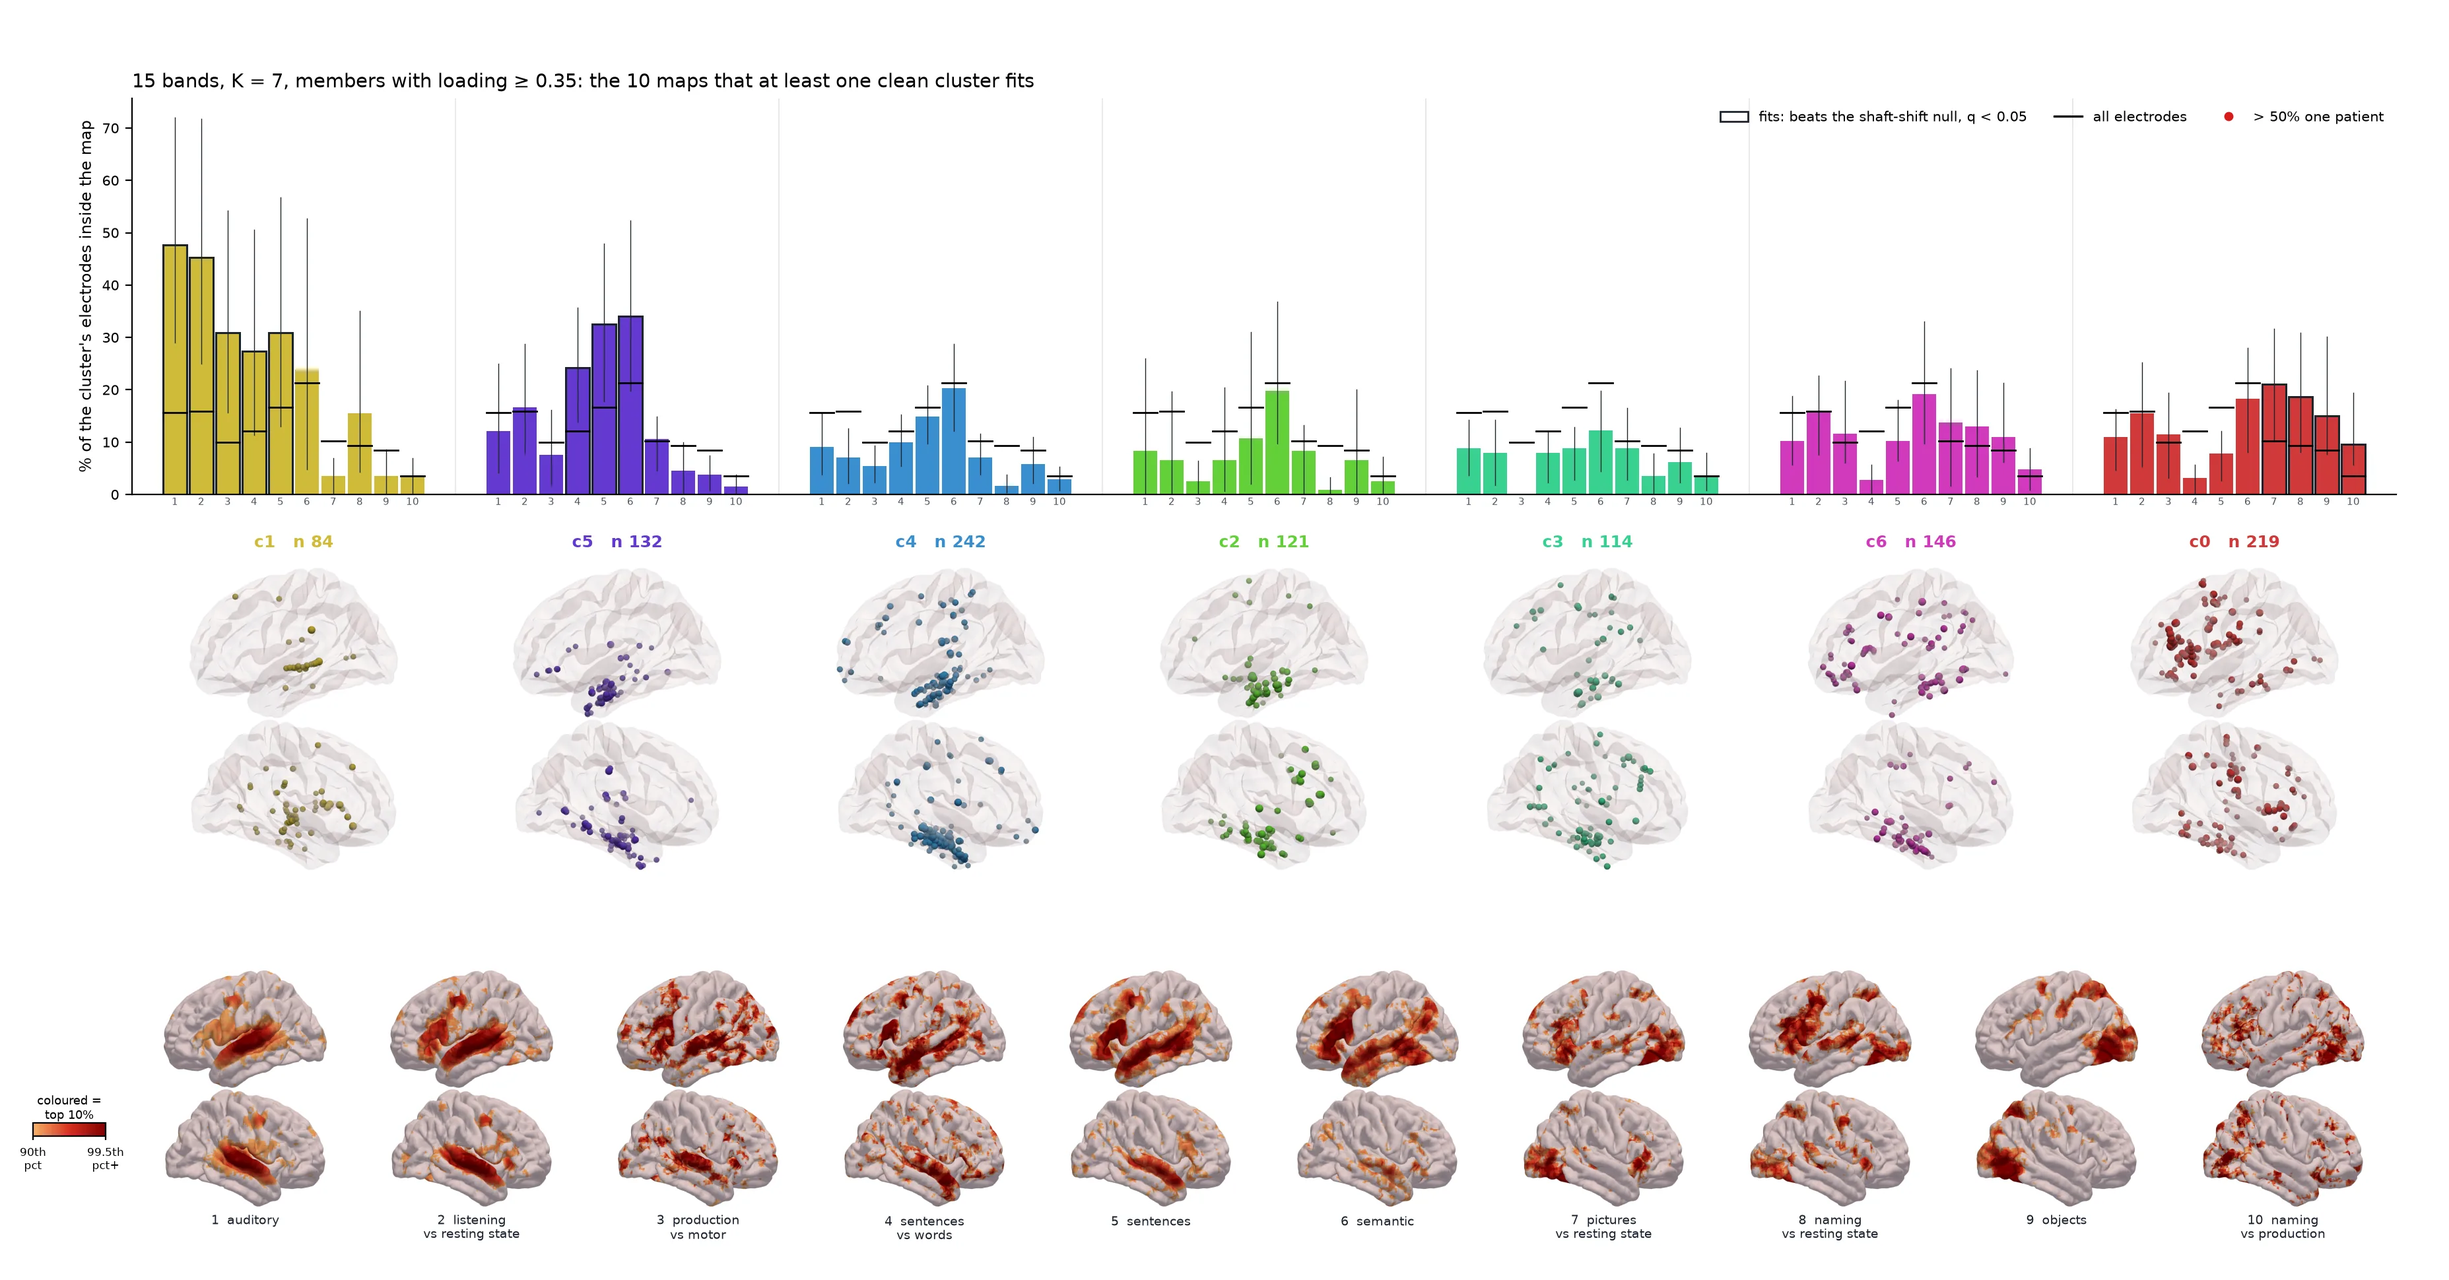
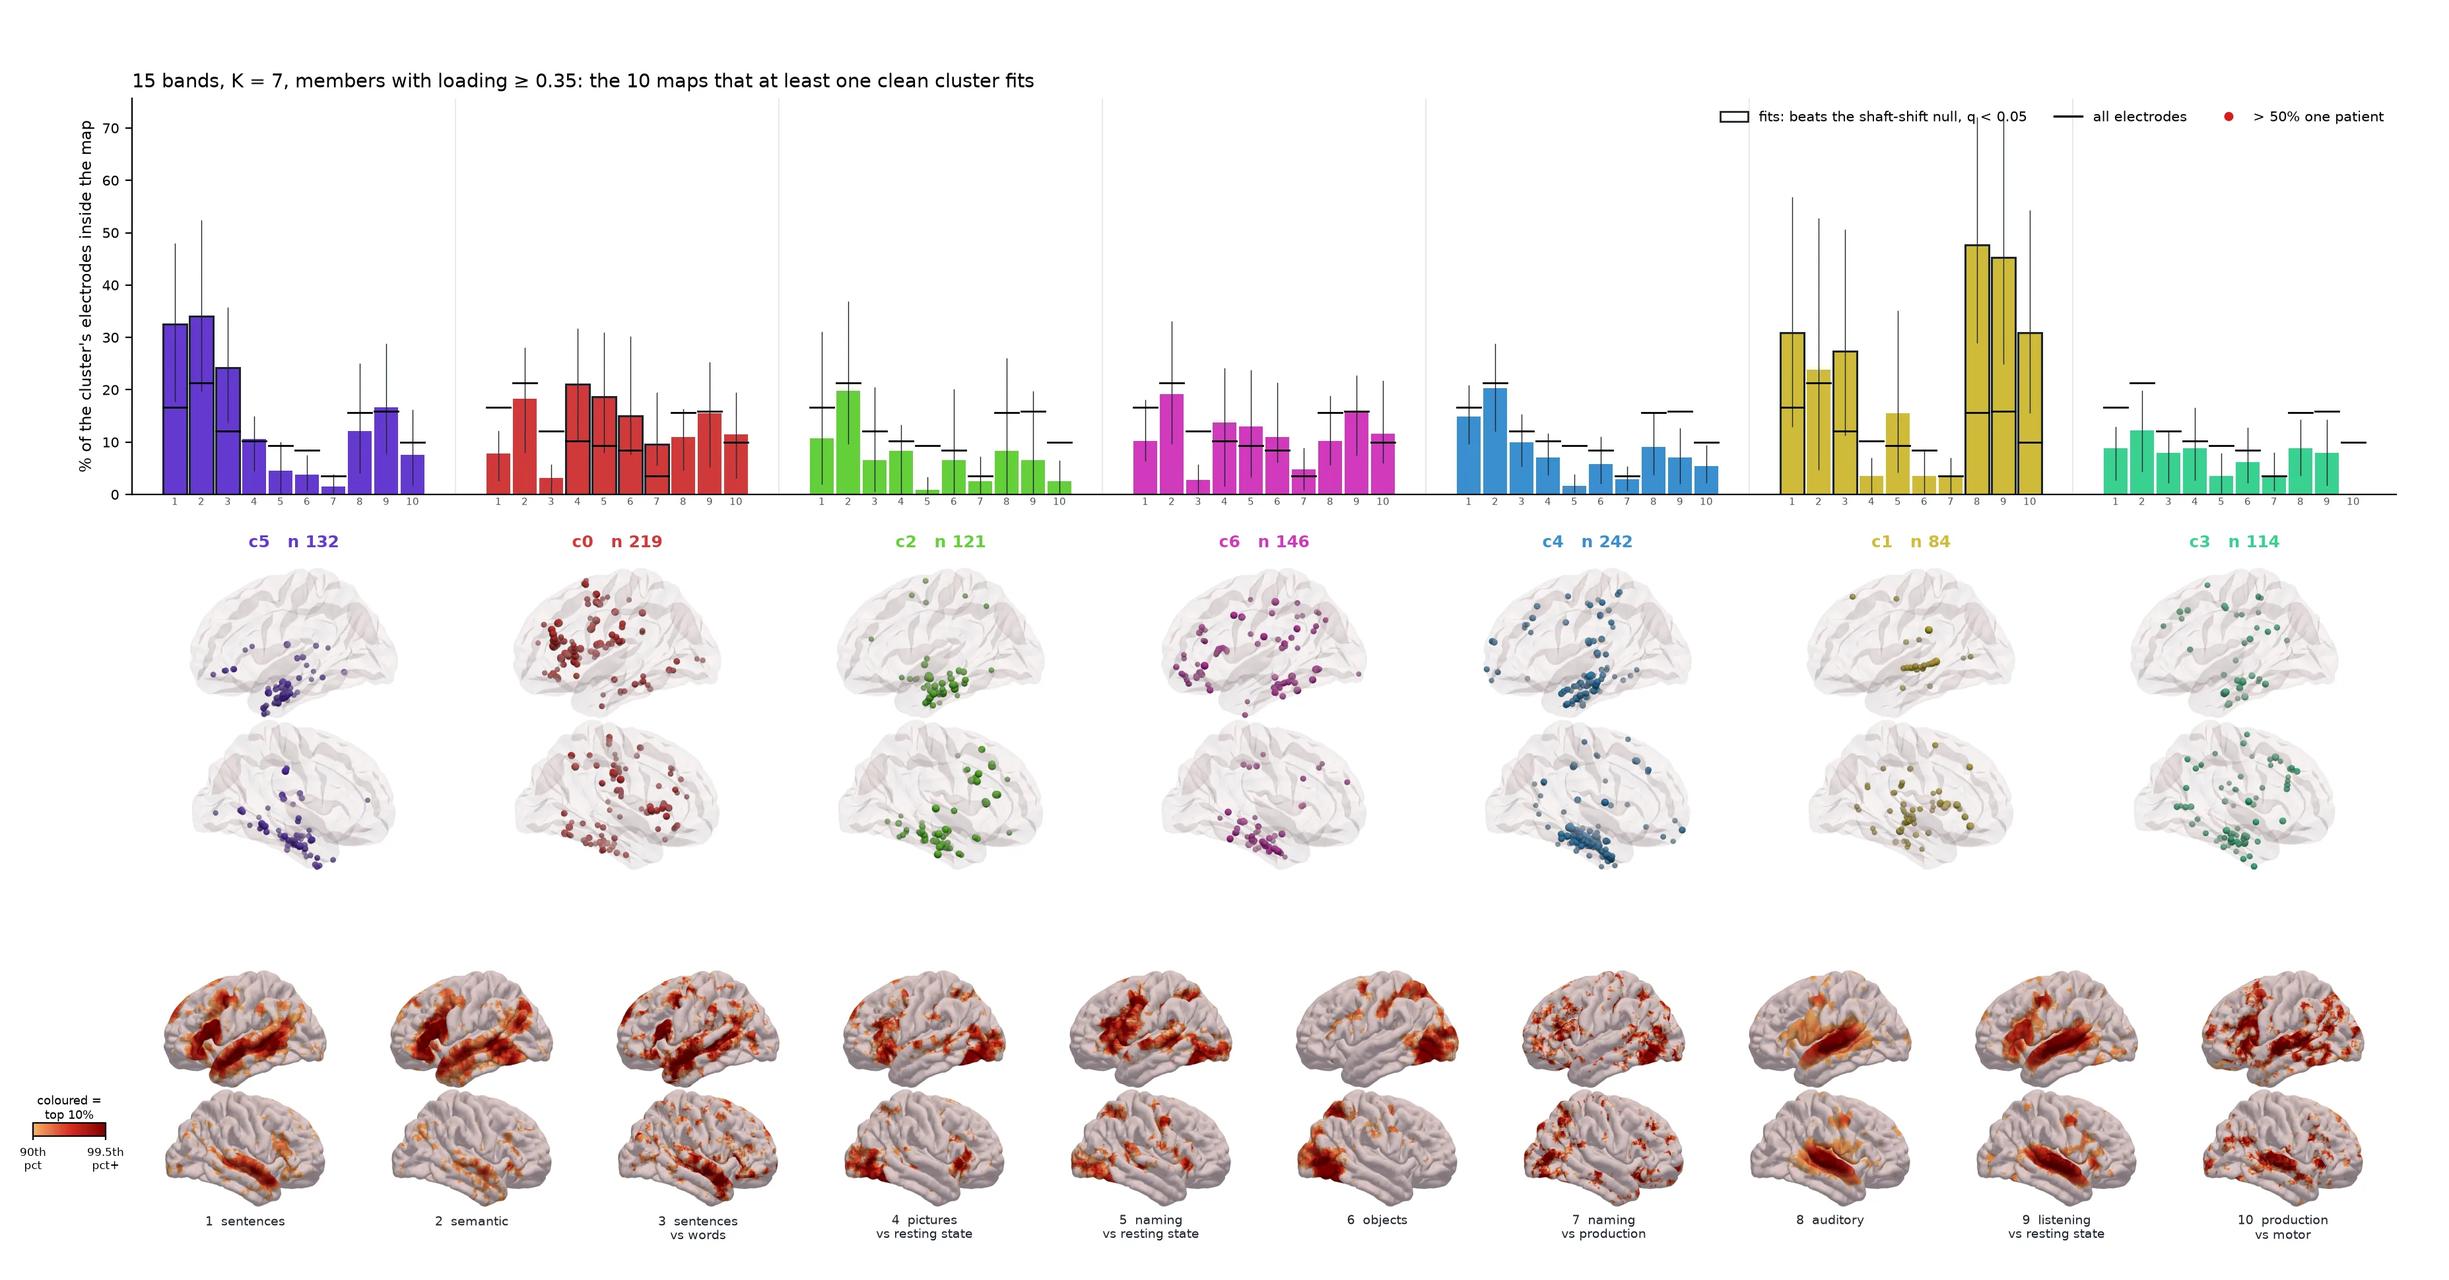
Highlight figures (step 16) in the cluster cards' order (c5 c0 c2 c6 c4 c1 c3), 15 bands z and 5 bands placed and coloured by their matched 15-band type, plus a _noglass version; tab and write-up updated (Lora, 2026-11-06)

diff --git a/02_FBM_Clustering/member_measures/16_highlight_maps.py b/02_FBM_Clustering/member_measures/16_highlight_maps.py
@@ -5,7 +5,8 @@ with VTK (desktop unlocked) or reuses step 15's tiles with --no-render.
     python 16_highlight_maps.py --ns nimare
     python 16_highlight_maps.py --ns nimare --configs 15band:7 15zband:7 5band:6 --loading 0.35 --perm 2000
 
-    out/highlight_maps/<tag>_K<k>_load035.png     transparent background
+    out/highlight_maps/<tag>_K<k>_load035.png          transparent background, with the glass brains
+    out/highlight_maps/<tag>_K<k>_load035_noglass.png  the same without the glass brains
     out/highlight_maps/<tag>_K<k>_load035.csv     every cluster x every map (all 23), with q and the selection
 
 THE SELECTION: for the solution, every cluster x all 23 maps is tested against the shaft-shift null (memberships
@@ -16,7 +17,9 @@ one map per round, its own maps first (fitted by no other clean cluster), then s
 (% of the cluster inside - % of all electrodes). A cluster with few fits keeps all of them; the language cluster, which
 fits almost every map, fills the remaining places. The maps left out are
 printed and marked in the CSV. The outlines use the same q, so the selection adds no test of its own.
-LAYOUT: x = the clusters (order of mean P(LanA), the violins' order, ids in the cluster's colour); in each cluster's
+LAYOUT: x = the clusters in the order of the cluster cards (the published 15-band types in P2.block_order: c5, c0,
+c2, c6, c4, c1, c3); another solution's clusters take the place and the colour of the 15-band type they match (FIG 4's
+rule, as the poster's z-scored companion; unmatched clusters last, in grey), ids are their own; in each cluster's
 group one bar per selected map, always in the same order, numbered under the bars; under each group the cluster's
 members on the glass brain, left hemisphere above right; at the bottom the selected maps on the pial surface in the
 same order and with the same numbers, left above right, coloured where the map is in its top 10% (key on the left).
@@ -149,6 +152,30 @@ def show(fig, img, x0, y0, w, h, W, H):
     ax.axis("off")
 
 
+# the cluster cards' order: the published 15-band types at K 7 in P2.block_order, and FIG 4's matching to them
+F4 = MC.load_module(MC.SHARE / "00_paper2_figure4_correspondence.py", "mm_f4")
+REF = P2.load_run("concat_bands15", 7)
+_C = P2.cube(REF["X"], REF)
+CARD = [int(j) for j in P2.block_order(np.stack([_C[REF["lab"] == j].mean(0) for j in range(7)]), REF)[0]]
+SPACE = F4.description_space()
+ZZ = F4.electrode_z(SPACE["Z"])
+_sref = F4.solution("cnmf", "concat_bands15", 7)
+F4.align(SPACE, _sref)
+C_REF = F4.centroids(ZZ, _sref["W"])
+GREY = (0.60, 0.60, 0.60)
+
+
+def card_types(tag, K):
+    """{cluster: the 15-band K 7 type it stands for, or None}: itself for 15 bands K 7, else FIG 4's greedy match."""
+    if tag == "15band" and K == 7:
+        return {j: j for j in range(K)}
+    s_ = F4.solution("cnmf", FSET[tag], K)
+    F4.align(SPACE, s_)
+    R = F4.corr_matrix(C_REF, F4.centroids(ZZ, s_["W"]), centre=True)
+    m = {j: i for i, j, r in F4.greedy_match(R)}
+    return {j: m.get(j) for j in range(K)}
+
+
 for cfg in a.configs:
     tag, K = cfg.split(":")[0], int(cfg.split(":")[1])
     d = P2.load_run(FSET[tag], K)
@@ -162,7 +189,9 @@ for cfg in a.configs:
     sk = [shaft_key(e) for e in d["meta"]["electrode"].to_numpy()]
     coh = 100 * I[has].mean(0)
     Pl = P_LANA.reindex(keys).to_numpy(float)
-    rank = sorted(range(K), key=lambda j: -np.nanmean(Pl[lab == j]))
+    TYPE = card_types(tag, K)
+    rank = sorted(range(K), key=lambda j: (TYPE[j] is None, CARD.index(TYPE[j]) if TYPE[j] is not None else j))
+    COL = {j: (tuple(np.asarray(P2.cluster_col(TYPE[j], 7))[:3]) if TYPE[j] is not None else GREY) for j in range(K)}
     kp = np.where(has & (load >= a.loading))[0]
     lk, pk, Ik = lab[kp], pat[kp], I[kp]
     pats = np.unique(pk)
@@ -228,79 +257,80 @@ for cfg in a.configs:
         print(f"  {tag} K {K}: no map is fitted by a clean cluster, no figure")
         continue
 
-    # ---- the figure, in inches
-    M = len(chosen)
-    BARW = 0.2
-    GW = M * BARW + 0.45                                              # one cluster's group
-    LEFT, RIGHT = 1.0, 0.4
-    PLOT_W = K * GW
-    W = LEFT + PLOT_W + RIGHT
-    MAPW = PLOT_W / M                                                 # one map's pial column
-    PIAL_H = min(0.9, MAPW * 0.62)
-    GLASS_H = min(1.15, (GW - 0.1) * 0.62)
-    H_BAR, TOPM = 3.0, 0.75
-    Y_PIAL = 0.55
-    Y_GLASS = Y_PIAL + 2 * PIAL_H + 0.75
-    Y_BAR = Y_GLASS + 2 * GLASS_H + 0.55
-    H = Y_BAR + H_BAR + TOPM
-    fig = plt.figure(figsize=(W, H), dpi=200)
-    fig.patch.set_alpha(0)
-    ax = fig.add_axes([LEFT / W, Y_BAR / H, PLOT_W / W, H_BAR / H])
-    ax.patch.set_alpha(0)
-    ymax = max(np.nanmax(HI[:, chosen]), 10) * 1.05
-    xt, xl = [], []
-    for xi, j in enumerate(rank):
-        col = np.asarray(P2.cluster_col(j, K))[:3]
-        g0 = xi * GW + 0.225
+    # ---- the figure, in inches, with and without the glass brains
+    for GLASS in (True, False):
+        M = len(chosen)
+        BARW = 0.2
+        GW = M * BARW + 0.45                                              # one cluster's group
+        LEFT, RIGHT = 1.0, 0.4
+        PLOT_W = K * GW
+        W = LEFT + PLOT_W + RIGHT
+        MAPW = PLOT_W / M                                                 # one map's pial column
+        PIAL_H = min(0.9, MAPW * 0.62)
+        GLASS_H = min(1.15, (GW - 0.1) * 0.62) if GLASS else 0.0
+        H_BAR, TOPM = 3.0, 0.75
+        Y_PIAL = 0.55
+        Y_GLASS = Y_PIAL + 2 * PIAL_H + (0.75 if GLASS else 0.55)
+        Y_BAR = Y_GLASS + 2 * GLASS_H + 0.55
+        H = Y_BAR + H_BAR + TOPM
+        fig = plt.figure(figsize=(W, H), dpi=200)
+        fig.patch.set_alpha(0)
+        ax = fig.add_axes([LEFT / W, Y_BAR / H, PLOT_W / W, H_BAR / H])
+        ax.patch.set_alpha(0)
+        ymax = max(np.nanmax(HI[:, chosen]), 10) * 1.05
+        xt, xl = [], []
+        for xi, j in enumerate(rank):
+            col = np.asarray(COL[j])
+            g0 = xi * GW + 0.225
+            for k_, m in enumerate(chosen):
+                x = g0 + (k_ + 0.5) * BARW
+                ax.bar(x, 100 * obs[j, m], width=BARW * 0.88, color=col, edgecolor=P2.INK if fit[j, m] else "none",
+                       lw=1.1 if fit[j, m] else 0, zorder=2)
+                ax.plot([x, x], [LO[j, m], HI[j, m]], color=P2.INK, lw=0.5, zorder=3)
+                ax.plot([x - BARW * 0.46, x + BARW * 0.46], [coh[m]] * 2, color="black", lw=1.0, zorder=4)
+                if not clean[j]:
+                    ax.plot(x, min(HI[j, m] + 3, ymax * 0.98), "o", color=RED, ms=2.6, zorder=5)
+                xt.append(x)
+                xl.append(str(k_ + 1))
+            if xi:
+                ax.axvline(xi * GW, color="#e3e6e4", lw=0.6, zorder=0)
+            # the cluster's id and n under its group, then its glass brains (left above right)
+            xc = LEFT + g0 + M * BARW / 2
+            fig.text(xc / W, (Y_GLASS + 2 * GLASS_H + 0.12) / H, f"c{j}   n {n_[j]}" + ("" if clean[j] else f"   {100 * top[j]:.0f}% one patient"),
+                     ha="center", va="bottom", fontsize=9, fontweight="bold", color=RED if not clean[j] else col)
+            for k_, side in enumerate(("L", "R") if GLASS else ()):
+                show(fig, glass_tile(tag, K, j, side, d, tuple(col)), xc - (GW - 0.1) / 2, Y_GLASS + (1 - k_) * GLASS_H,
+                     GW - 0.1, GLASS_H, W, H)
+        ax.set_xticks(xt)
+        ax.set_xticklabels(xl, fontsize=5.5, color="#4a5462")
+        ax.tick_params(axis="x", length=0, pad=1.5)
+        ax.set_xlim(0, PLOT_W)
+        ax.set_ylim(0, ymax)
+        ax.set_ylabel("% of the cluster's electrodes inside the map", fontsize=8.5)
+        ax.tick_params(axis="y", labelsize=7.5)
+        ax.spines[["top", "right"]].set_visible(False)
+        ax.set_title(f"{MC.LABEL[tag]}, K = {K}, members with loading ≥ {a.loading:g}: the {M} maps that at least one "
+                     "clean cluster fits", fontsize=10.5, loc="left")
+        ax.legend(handles=[Patch(facecolor="white", edgecolor=P2.INK, label="fits: beats the shaft-shift null, q < 0.05"),
+                           Line2D([0], [0], color="black", lw=1.2, label="all electrodes"),
+                           Line2D([0], [0], marker="o", ls="", color=RED, ms=4, label="> 50% one patient")],
+                  loc="upper right", frameon=False, fontsize=7.5, ncol=3)
+        # the selected maps on the pial surface, same order and numbers, left above right
         for k_, m in enumerate(chosen):
-            x = g0 + (k_ + 0.5) * BARW
-            ax.bar(x, 100 * obs[j, m], width=BARW * 0.88, color=col, edgecolor=P2.INK if fit[j, m] else "none",
-                   lw=1.1 if fit[j, m] else 0, zorder=2)
-            ax.plot([x, x], [LO[j, m], HI[j, m]], color=P2.INK, lw=0.5, zorder=3)
-            ax.plot([x - BARW * 0.46, x + BARW * 0.46], [coh[m]] * 2, color="black", lw=1.0, zorder=4)
-            if not clean[j]:
-                ax.plot(x, min(HI[j, m] + 3, ymax * 0.98), "o", color=RED, ms=2.6, zorder=5)
-            xt.append(x)
-            xl.append(str(k_ + 1))
-        if xi:
-            ax.axvline(xi * GW, color="#e3e6e4", lw=0.6, zorder=0)
-        # the cluster's id and n under its group, then its glass brains (left above right)
-        xc = LEFT + g0 + M * BARW / 2
-        fig.text(xc / W, (Y_GLASS + 2 * GLASS_H + 0.12) / H, f"c{j}   n {n_[j]}" + ("" if clean[j] else f"   {100 * top[j]:.0f}% one patient"),
-                 ha="center", va="bottom", fontsize=9, fontweight="bold", color=RED if not clean[j] else col)
-        for k_, side in enumerate(("L", "R")):
-            show(fig, glass_tile(tag, K, j, side, d, tuple(col)), xc - (GW - 0.1) / 2, Y_GLASS + (1 - k_) * GLASS_H,
-                 GW - 0.1, GLASS_H, W, H)
-    ax.set_xticks(xt)
-    ax.set_xticklabels(xl, fontsize=5.5, color="#4a5462")
-    ax.tick_params(axis="x", length=0, pad=1.5)
-    ax.set_xlim(0, PLOT_W)
-    ax.set_ylim(0, ymax)
-    ax.set_ylabel("% of the cluster's electrodes inside the map", fontsize=8.5)
-    ax.tick_params(axis="y", labelsize=7.5)
-    ax.spines[["top", "right"]].set_visible(False)
-    ax.set_title(f"{MC.LABEL[tag]}, K = {K}, members with loading ≥ {a.loading:g}: the {M} maps that at least one "
-                 "clean cluster fits", fontsize=10.5, loc="left")
-    ax.legend(handles=[Patch(facecolor="white", edgecolor=P2.INK, label="fits: beats the shaft-shift null, q < 0.05"),
-                       Line2D([0], [0], color="black", lw=1.2, label="all electrodes"),
-                       Line2D([0], [0], marker="o", ls="", color=RED, ms=4, label="> 50% one patient")],
-              loc="upper right", frameon=False, fontsize=7.5, ncol=3)
-    # the selected maps on the pial surface, same order and numbers, left above right
-    for k_, m in enumerate(chosen):
-        xc = LEFT + (k_ + 0.5) * MAPW
-        for s_, side in enumerate(("L", "R")):
-            show(fig, pial_tile(MAPS[m][3:], side), xc - MAPW * 0.47, Y_PIAL + (1 - s_) * PIAL_H, MAPW * 0.94, PIAL_H, W, H)
-        fig.text(xc / W, (Y_PIAL - 0.05) / H, f"{k_ + 1}  " + NAMES[m].replace(" vs ", "\nvs "), ha="center", va="top",
-                 fontsize=6.8, color="#1c2330", linespacing=1.1)
-    cax = fig.add_axes([0.25 / W, (Y_PIAL + PIAL_H * 0.6) / H, 0.55 / W, 0.1 / H])
-    cb = fig.colorbar(plt.cm.ScalarMappable(norm=plt.Normalize(0, 1), cmap=NS_CMAP), cax=cax, orientation="horizontal",
-                      ticks=[0, 1])
-    cb.ax.set_xticklabels(["90th\npct", "99.5th\npct+"], fontsize=6)
-    cb.ax.tick_params(length=2)
-    cax.set_title("coloured =\ntop 10%", fontsize=6.5, pad=2)
-    out = OUTD / f"{tag}_K{K}_{LTAG}.png"
-    fig.savefig(out, transparent=True)
-    plt.close(fig)
-    print(f"wrote {out.name} ({W:.0f} x {H:.0f} in): {M} maps shown; fits per cluster: "
-          + ", ".join(f"c{j}{'' if clean[j] else '(X)'} {int(fit[j].sum())}" for j in rank)
-          + (f"; left out: {', '.join(dropped)}" if dropped else ""))
+            xc = LEFT + (k_ + 0.5) * MAPW
+            for s_, side in enumerate(("L", "R")):
+                show(fig, pial_tile(MAPS[m][3:], side), xc - MAPW * 0.47, Y_PIAL + (1 - s_) * PIAL_H, MAPW * 0.94, PIAL_H, W, H)
+            fig.text(xc / W, (Y_PIAL - 0.05) / H, f"{k_ + 1}  " + NAMES[m].replace(" vs ", "\nvs "), ha="center", va="top",
+                     fontsize=6.8, color="#1c2330", linespacing=1.1)
+        cax = fig.add_axes([0.25 / W, (Y_PIAL + PIAL_H * 0.6) / H, 0.55 / W, 0.1 / H])
+        cb = fig.colorbar(plt.cm.ScalarMappable(norm=plt.Normalize(0, 1), cmap=NS_CMAP), cax=cax, orientation="horizontal",
+                          ticks=[0, 1])
+        cb.ax.set_xticklabels(["90th\npct", "99.5th\npct+"], fontsize=6)
+        cb.ax.tick_params(length=2)
+        cax.set_title("coloured =\ntop 10%", fontsize=6.5, pad=2)
+        out = OUTD / f"{tag}_K{K}_{LTAG}{'' if GLASS else '_noglass'}.png"
+        fig.savefig(out, transparent=True)
+        plt.close(fig)
+        print(f"wrote {out.name} ({W:.0f} x {H:.0f} in): {M} maps shown; fits per cluster: "
+              + ", ".join(f"c{j}{'' if clean[j] else '(X)'} {int(fit[j].sum())}" for j in rank)
+              + (f"; left out: {', '.join(dropped)}" if dropped else ""))

diff --git a/02_FBM_Clustering/make_functional_maps_tab.py b/02_FBM_Clustering/make_functional_maps_tab.py
@@ -206,13 +206,13 @@ def build() -> str:
     for key, title in (("highlight_15band_K7", "15 bands, K 7"), ("highlight_15zband_K7", "15 bands z, K 7"),
                        ("highlight_5band_K6", "5 bands, K 6")):
         P.append(fig(key, f"{title}, loading &ge; 0.35, the 10 maps",
-                     "x = the clusters (order of mean P(LanA)); in each cluster's group one bar per map, always in the same "
+                     "x = the clusters in the order of the cluster cards (c5, c0, c2, c6, c4, c1, c3); 15 bands z and 5 bands clusters take the place and colour of the 15-band type they match (FIG 4's rule), ids are their own; in each cluster's group one bar per map, always in the same "
                      "order and numbered under the bars. " + LEG_BARS + " Under each cluster: its members on the glass "
-                     "brain, left hemisphere above right. Bottom: the 10 maps in bar order with the same numbers, left above "
+                     "brain, left hemisphere above right (a second file, _noglass, leaves them out). Bottom: the 10 maps in bar order with the same numbers, left above "
                      "right. " + LEG_PIAL))
     P.append(table(["Solution", "Fits shown / fits in total"],
                    [["15 bands K 7", "c1 language 5 / 16; c5 sentences / semantic 3 / 6; c0 pictures / objects 4 / 4"],
-                    ["15 bands z K 7", "c0 language 7 / 18; c5 semantic 1 / 1; c1 objects 1 / 1; c6 objects, naming vs production 2 / 2 (c2 is 65% one patient)"],
+                    ["15 bands z K 7", "c0 language 7 / 18; c5 semantic 1 / 1; c1 objects 1 / 1; c6 objects, naming vs production 2 / 2 (c2 is 72% one patient at this cut)"],
                     ["5 bands K 6", "c5 auditory / production / sentences 4 / 6; c3 naming / pictures / objects 5 / 5; c2 semantic 1 / 1"]]))
 
     P += ['    <h3 id="fm-conclusion">8 &middot; Conclusion</h3>',
